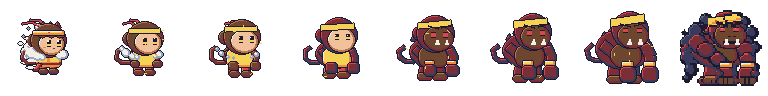
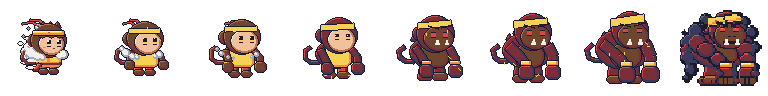
Ape morph: arms and fists show from the first in-between, back arm swings across the chest
Claude-Session: https://claude.ai/code/session_01J8LgTLVYzThXjNSRVhWqep

diff --git a/tools/sprites/generate.py b/tools/sprites/generate.py
@@ -1058,16 +1058,16 @@ def ape_morph(t: float, scale: float) -> Image.Image:
         c.part(RR(box((x0 - 1, 53, x0 + 7, 57), (x1 - 2, 53, x1 + 10, 58)), w(2, 2)), BROWN)
     # the hunched back swells out from behind the armour
     c.part(E(box((20, 31, 44, 48), (10, 14, 54, 45), u)), fur)
-    if t > 0.1:  # the back arm sprouts from the shoulder
-        c.part(L(pts([(22, 36), (20, 40), (20, 42)], APE_POSES["walk"][0][0], u), w(2, 9)), fur)
     # the golden armour shrinks into the ape's chest
     c.part(RR(box((20, 33, 44, 48), (22, 26, 44, 43), u), w(3, 8)), BROWN if ape else YELLOW)
-    if t > 0.1:  # front arm and both fists grow
-        c.part(L(pts([(42, 36), (44, 40), (44, 42)], APE_POSES["walk"][0][1], u), w(2, 9)), fur)
-        for x0, (x1, y1, _thumb) in zip((18, 40), APE_POSES["walk"][1]):
-            if ape:
-                c.part(R(box((x0 + 1, 41, x0 + 5, 42), (x1 + 2, y1 - 4, x1 + 10, y1 - 1), u)), YELLOW)
-            c.part(RR(box((x0, 42, x0 + 6, 46), (x1, y1, x1 + 12, y1 + 11), u), w(1, 3)), fur)
+    # arms and fists grow out from the sides of the body, poking out on the first in-between; the back arm
+    # swings across the chest into the ape's knuckle-walk
+    c.part(L(pts([(21, 35), (16, 39), (15, 43)], APE_POSES["walk"][0][0], u), w(4, 9)), fur)
+    c.part(L(pts([(43, 35), (48, 39), (49, 43)], APE_POSES["walk"][0][1], u), w(4, 9)), fur)
+    for x0, (x1, y1, _thumb) in zip((11, 46), APE_POSES["walk"][1]):
+        if ape:
+            c.part(R(box((x0 + 1, 41, x0 + 6, 42), (x1 + 2, y1 - 4, x1 + 10, y1 - 1), u)), YELLOW)
+        c.part(RR(box((x0, 42, x0 + 7, 48), (x1, y1, x1 + 12, y1 + 11), u), w(2, 3)), fur)
     # head: Wukong's round head pushes forward and shrinks into the ape's
     if t < 0.75:
         c.part(E(box((11, 17, 21, 28), (20, 10, 28, 20), u)), fur)  # ear tucks in
